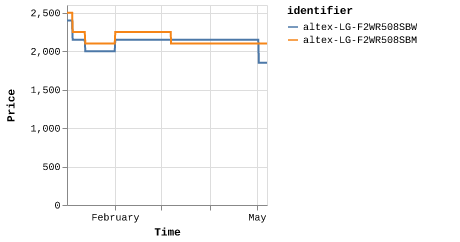
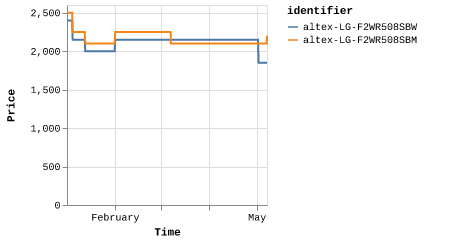
Latest scraping spalat: Tue May  7 12:49:47 UTC 2024

diff --git a/scrapes/spalat/altex-LG-F2WR508SBM.md b/scrapes/spalat/altex-LG-F2WR508SBM.md
@@ -1,3 +1,3 @@
-2099
+2199
 
 [Source](https://altex.ro/masina-de-spalat-rufe-frontala-slim-lg-f2wr508sbm-steam-8-kg-1200rpm-clasa-a-negru/cpd/MSFF2WR508SBM/)
